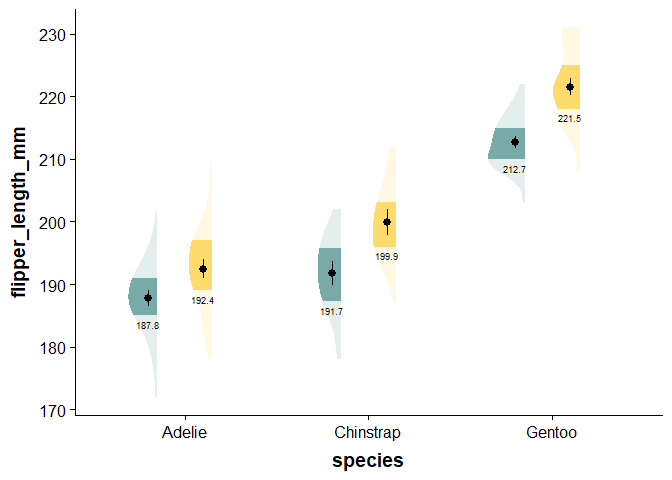
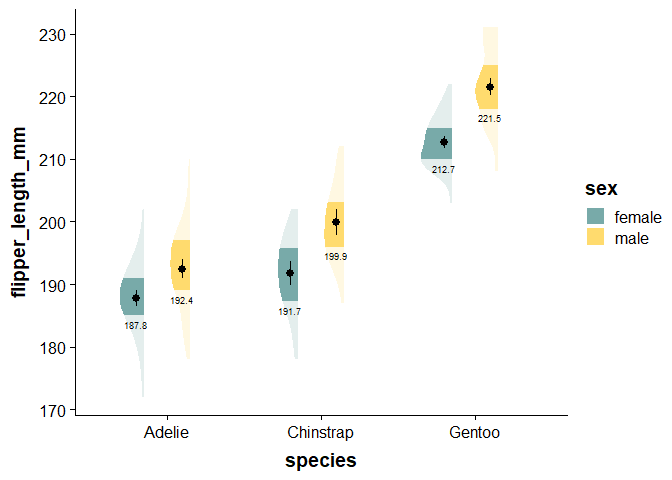
fdg

diff --git a/README.md b/README.md
@@ -368,7 +368,6 @@ ggplot(data = df,
     ggdist::stat_slab(
                      side = "left", 
                      scale = 0.4, 
-                     show.legend = F, 
                      position = position_dodge(width = .6), 
                      .width = c(.50, 1),
                      aes(fill_ramp = after_stat(level))) +
@@ -376,6 +375,7 @@ ggplot(data = df,
                                    aesthetics = c("fill_ramp")) + 
       scale_colour_manual(values = nova_palette, 
                               aesthetics = c("fill")) +   
+  guides(fill_ramp = "none") +
 
   geom_text(data = flipper_summary, 
             aes(x = species, 
